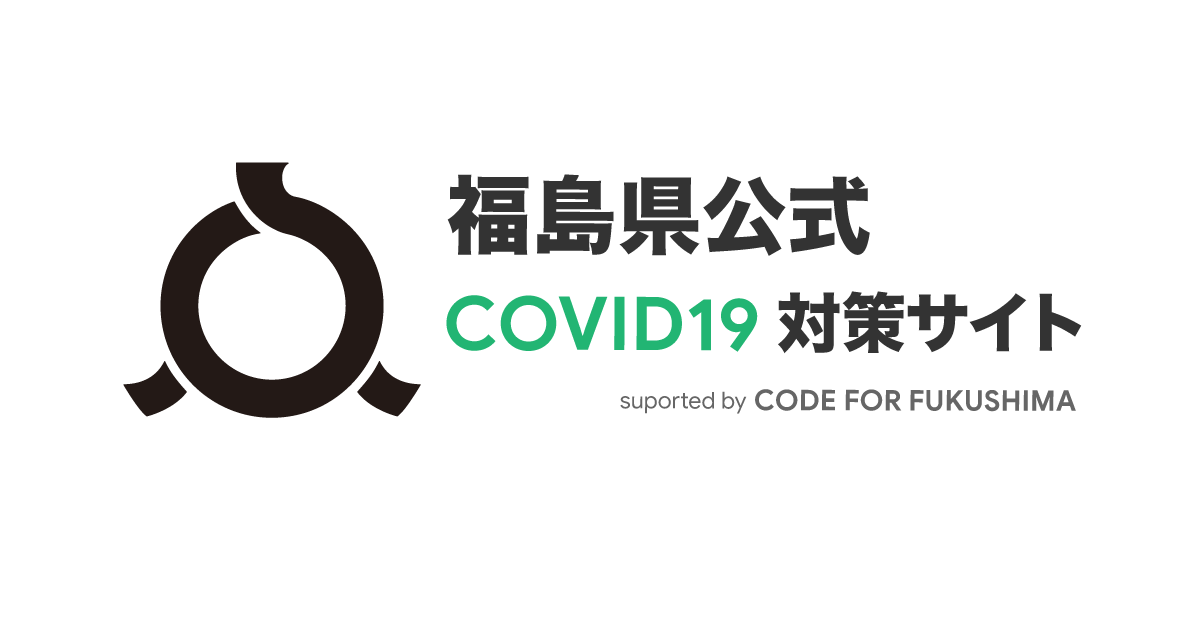
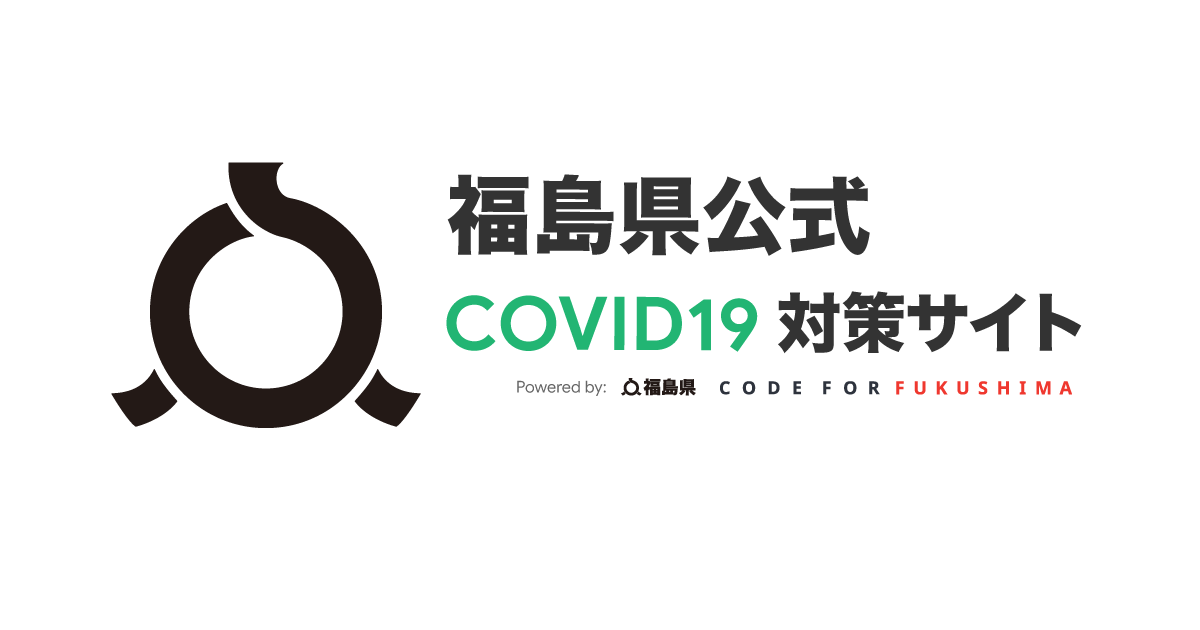
updated data

diff --git a/README.md b/README.md
@@ -1,7 +1,7 @@
 # 福島県 新型コロナウイルス感染症対策サイト
 このリポジトリのプロジェクトは、[東京都のプロジェクト](https://github.com/tokyo-metropolitan-gov/covid19)から派生させたものです。
 
-[![福島県 新型コロナウイルス感染症対策サイト](https://cdn2.dott.dev/ogp.png)](https://fukushima-covid19.web.app/)
+[![福島県 新型コロナウイルス感染症対策サイト](https://cdn2.dott.dev/ogp2.png)](https://fukushima-covid19.web.app/)
 
 ## 貢献の仕方
 Issues にあるいろいろな修正にご協力いただけると嬉しいです。
